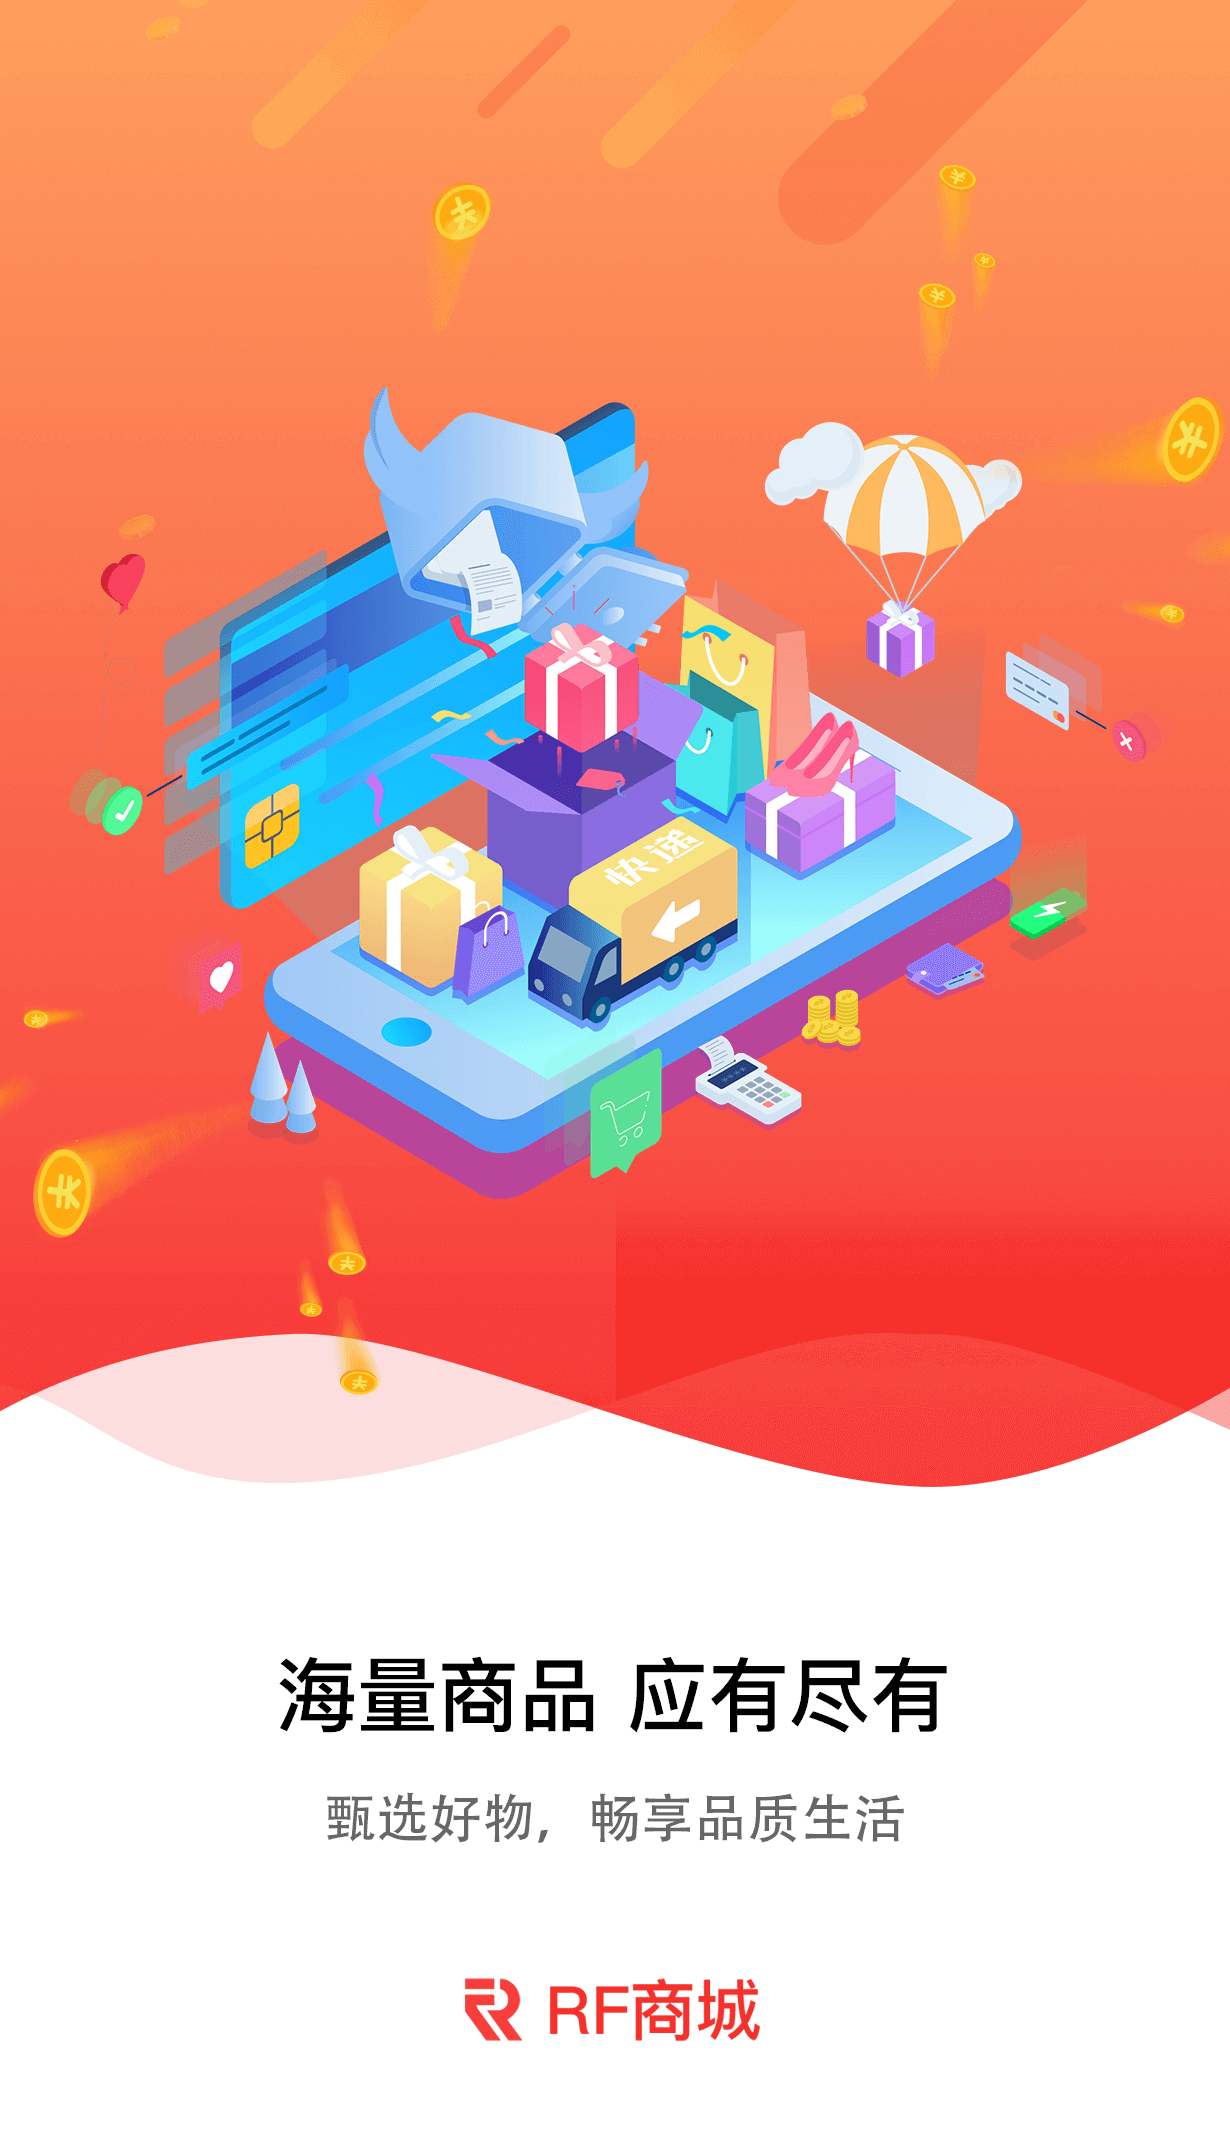
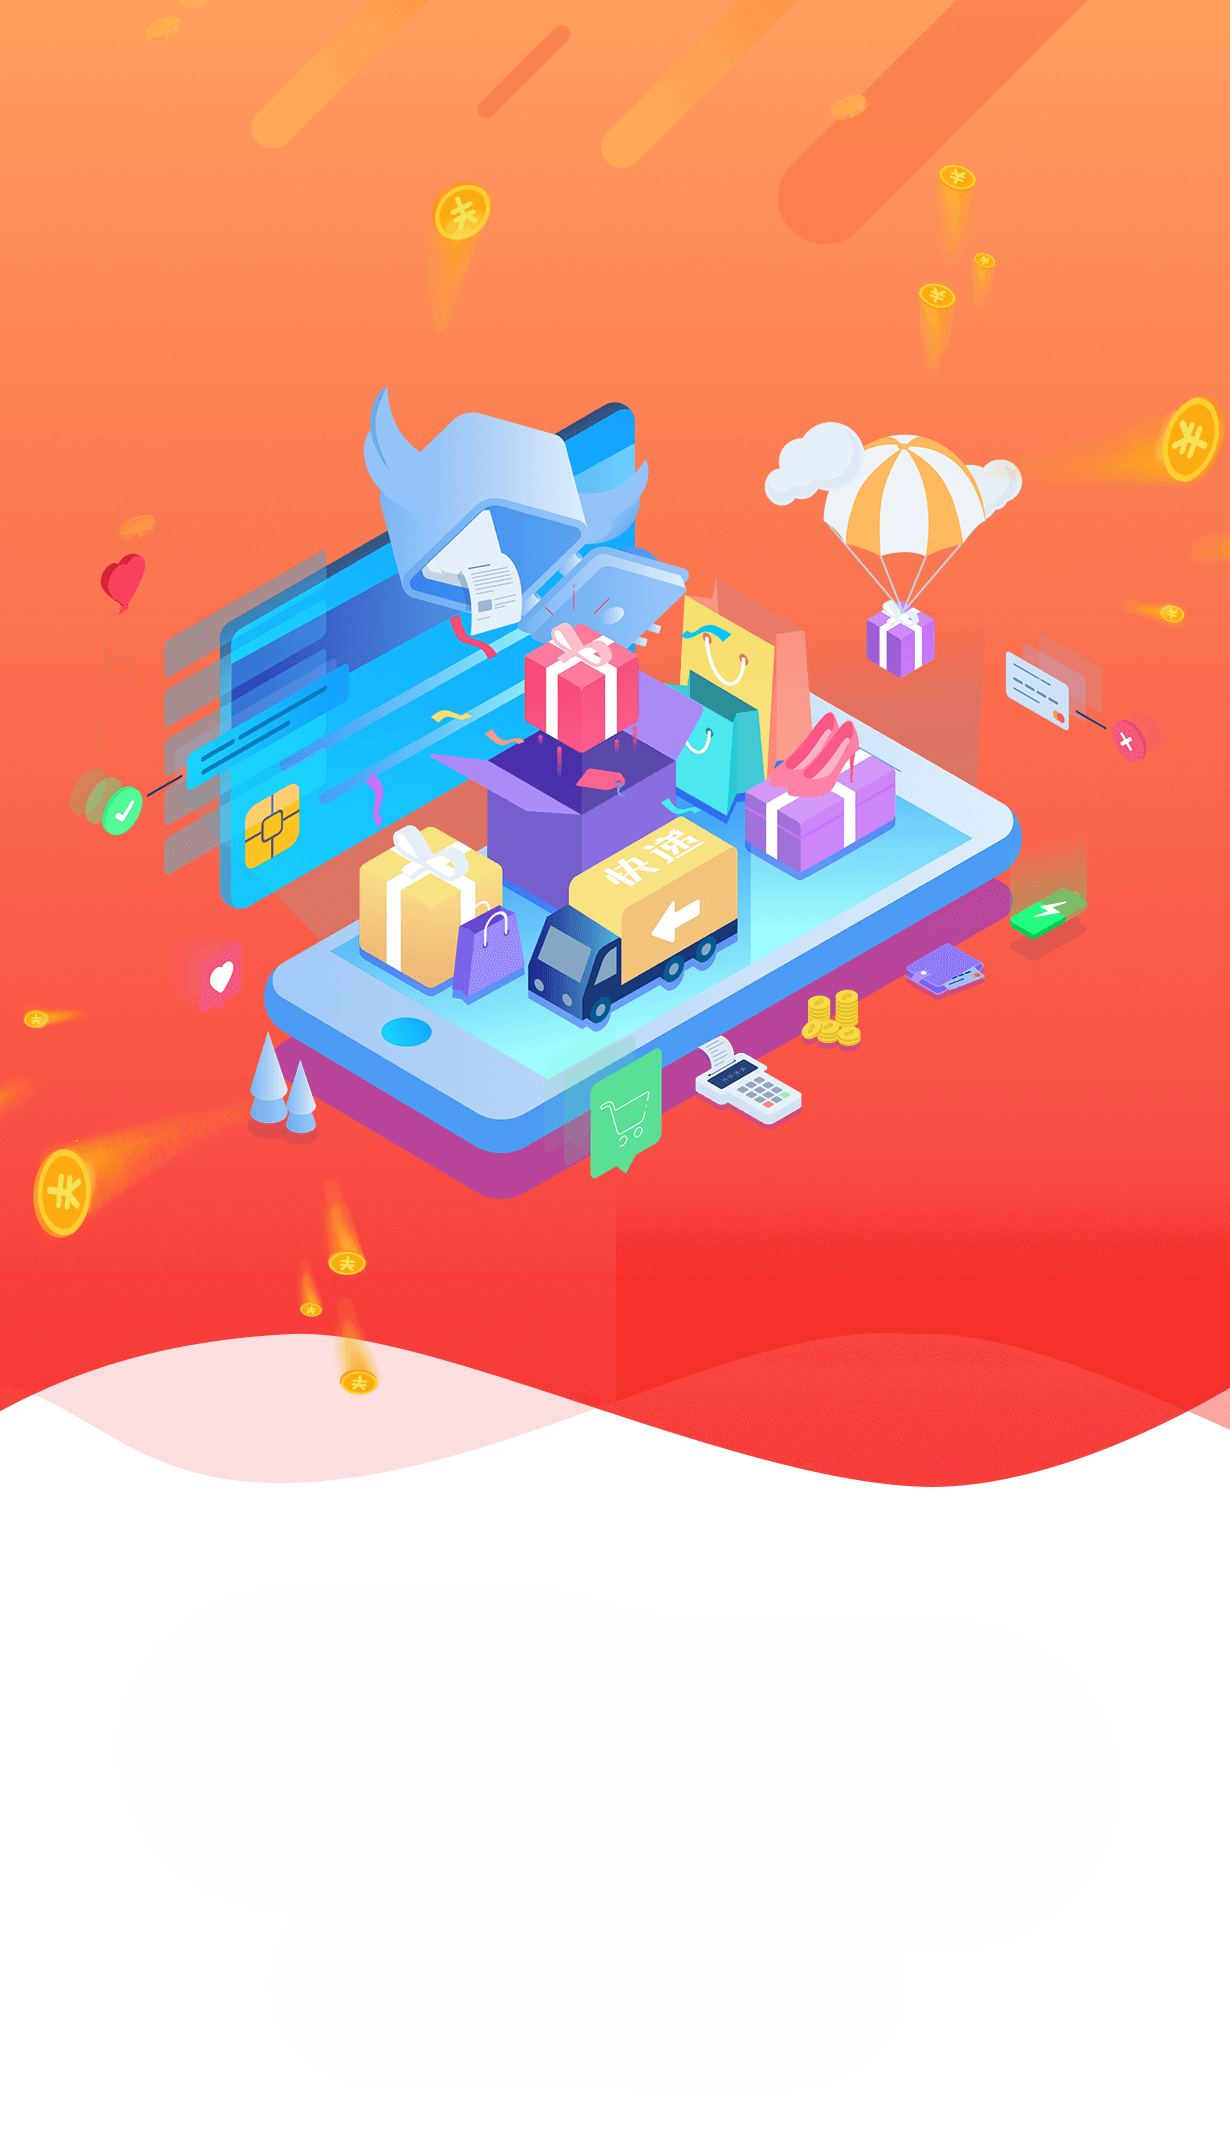
修改flashscren

Changed region(s): [[0.2163, 0.7703, 0.7724, 0.8627], [0.3707, 0.9244, 0.6179, 0.9552]]

diff --git a/src/api/login.js b/src/api/login.js
@@ -18,6 +18,7 @@ const workflowsUrl = mainUrl +  '/api/workflows'
 const suppliesUrl = mainUrl + '/api/supplies'
 const usersUrl = mainUrl + '/api/users'
 const wardUrl = mainUrl + '/api/ward'
+const inpatientUrl= mainUrl + '/api/inpatient'
 
 const getInpatientTasksById =(id)=>{
     return `${mainUrl}/api/inpatient/${id}/tasks`

diff --git a/README.md b/README.md
@@ -1,8 +1,3 @@
-## RF 微商城
-
-### 前言
-
-基于 [RageFrame2](https://github.com/jianyan74/rageframe2) 的一款免费开源的基础商城销售功能的开源微商城，前端基于 uni-app，一端发布多端通用，目前已经适配 H5、微信小程序、QQ小程序、Ios App、Android App。目前开源的版本功能为 V1 版，更多增强功能(V2、V3)敬请期待。
 
 
 ### 项目地址
@@ -106,37 +101,3 @@ location / {
 
 > [详见配置说明](docs/CONFIG.md)
 
-### 官网
-
-http://www.rageframe.com
-
-### 问题反馈
-
-在使用中有任何问题，欢迎反馈给我，可以用以下联系方式跟我们交流
-
-QQ群2：[1148015133](https://jq.qq.com/?_wv=1027&k=Wk663e9N)
-
-### 特别鸣谢
-
-感谢以下的项目，排名不分先后
-
-Vuejs： https://github.com/vuejs/vue
-
-uni-app： https://uniapp.dcloud.io/
-
-mix-mall: https://ext.dcloud.net.cn/plugin?id=200
-
-ColorUI: https://github.com/weilanwl/ColorUI
-
-...
-
-### 版权信息
-
-RF商城 遵循 [Apache2](LICENSE.md) 开源协议和 [附加使用协议](docs/LICENSE-SUPPLEMENTAL.md) 发布，并提供免费使用。
-
-本项目包含的第三方源码和二进制文件之版权信息另行标注。
-
-版权所有Copyright © 2016-2022 by RageFrame [www.rageframe.com](http://www.rageframe.com)
-
-All rights reserved。
-LICENSE-SUPPLEMENTAL.md
